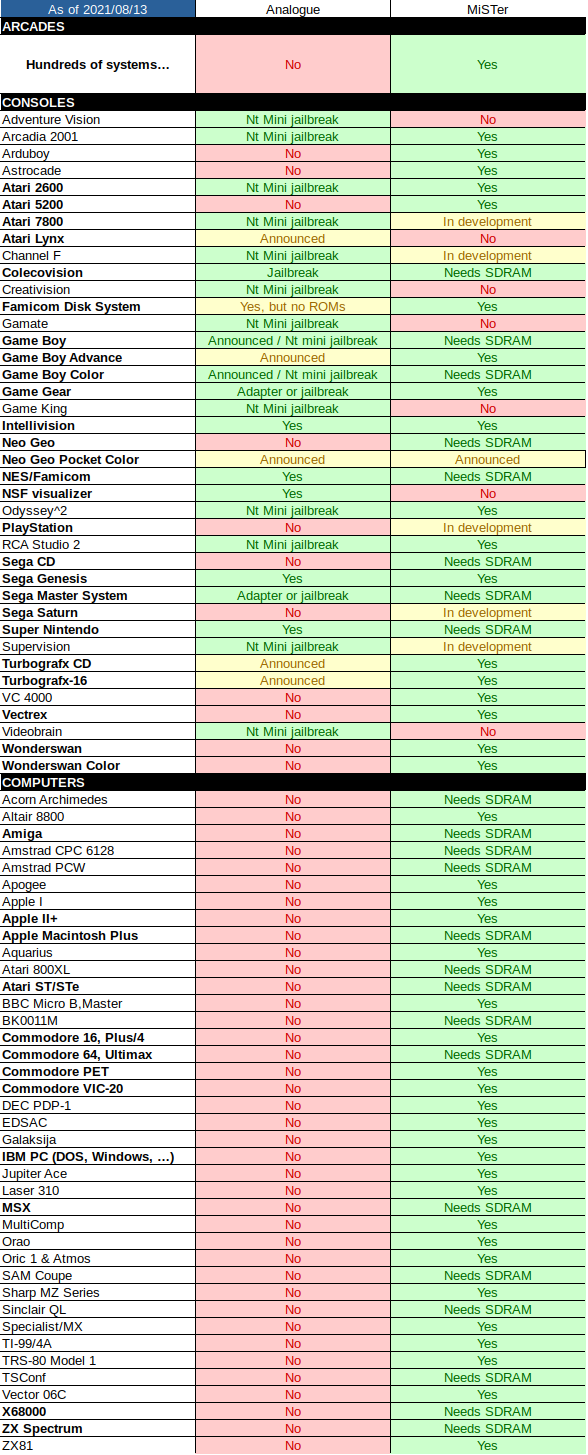
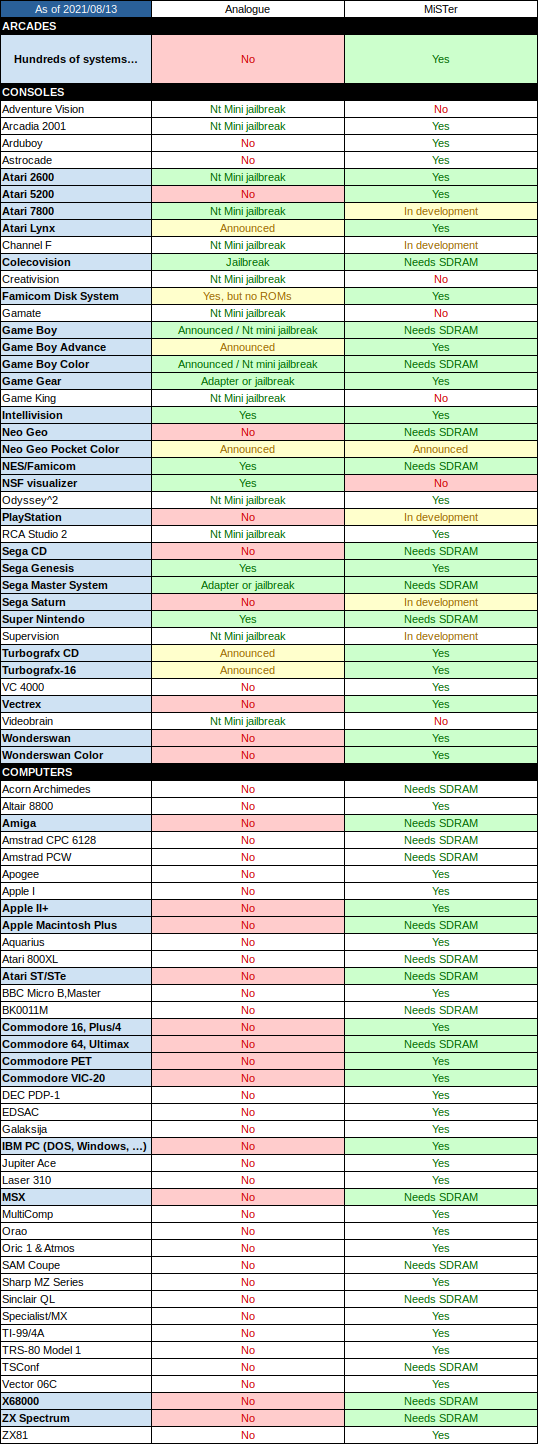
fix: mister update image

diff --git a/content/posts/20201018-misterfpga.md b/content/posts/20201018-misterfpga.md
@@ -269,7 +269,7 @@ up on the majority of Analogue's products based on value alone when the MiSTer e
 ## Supported platforms
 
 Just for a fun comparison, I compiled a list of platforms supported by Analogue and by MiSTer. To guide your
-eye, I boldened the name of consoles I think might interest most retronauts.
+eye, I boldened and colored the name of consoles I think might interest most retronauts interested in gaming.
 
 {{< figure src="/img/supported-platforms-analogue-vs-mister.png" position="center">}}
 
